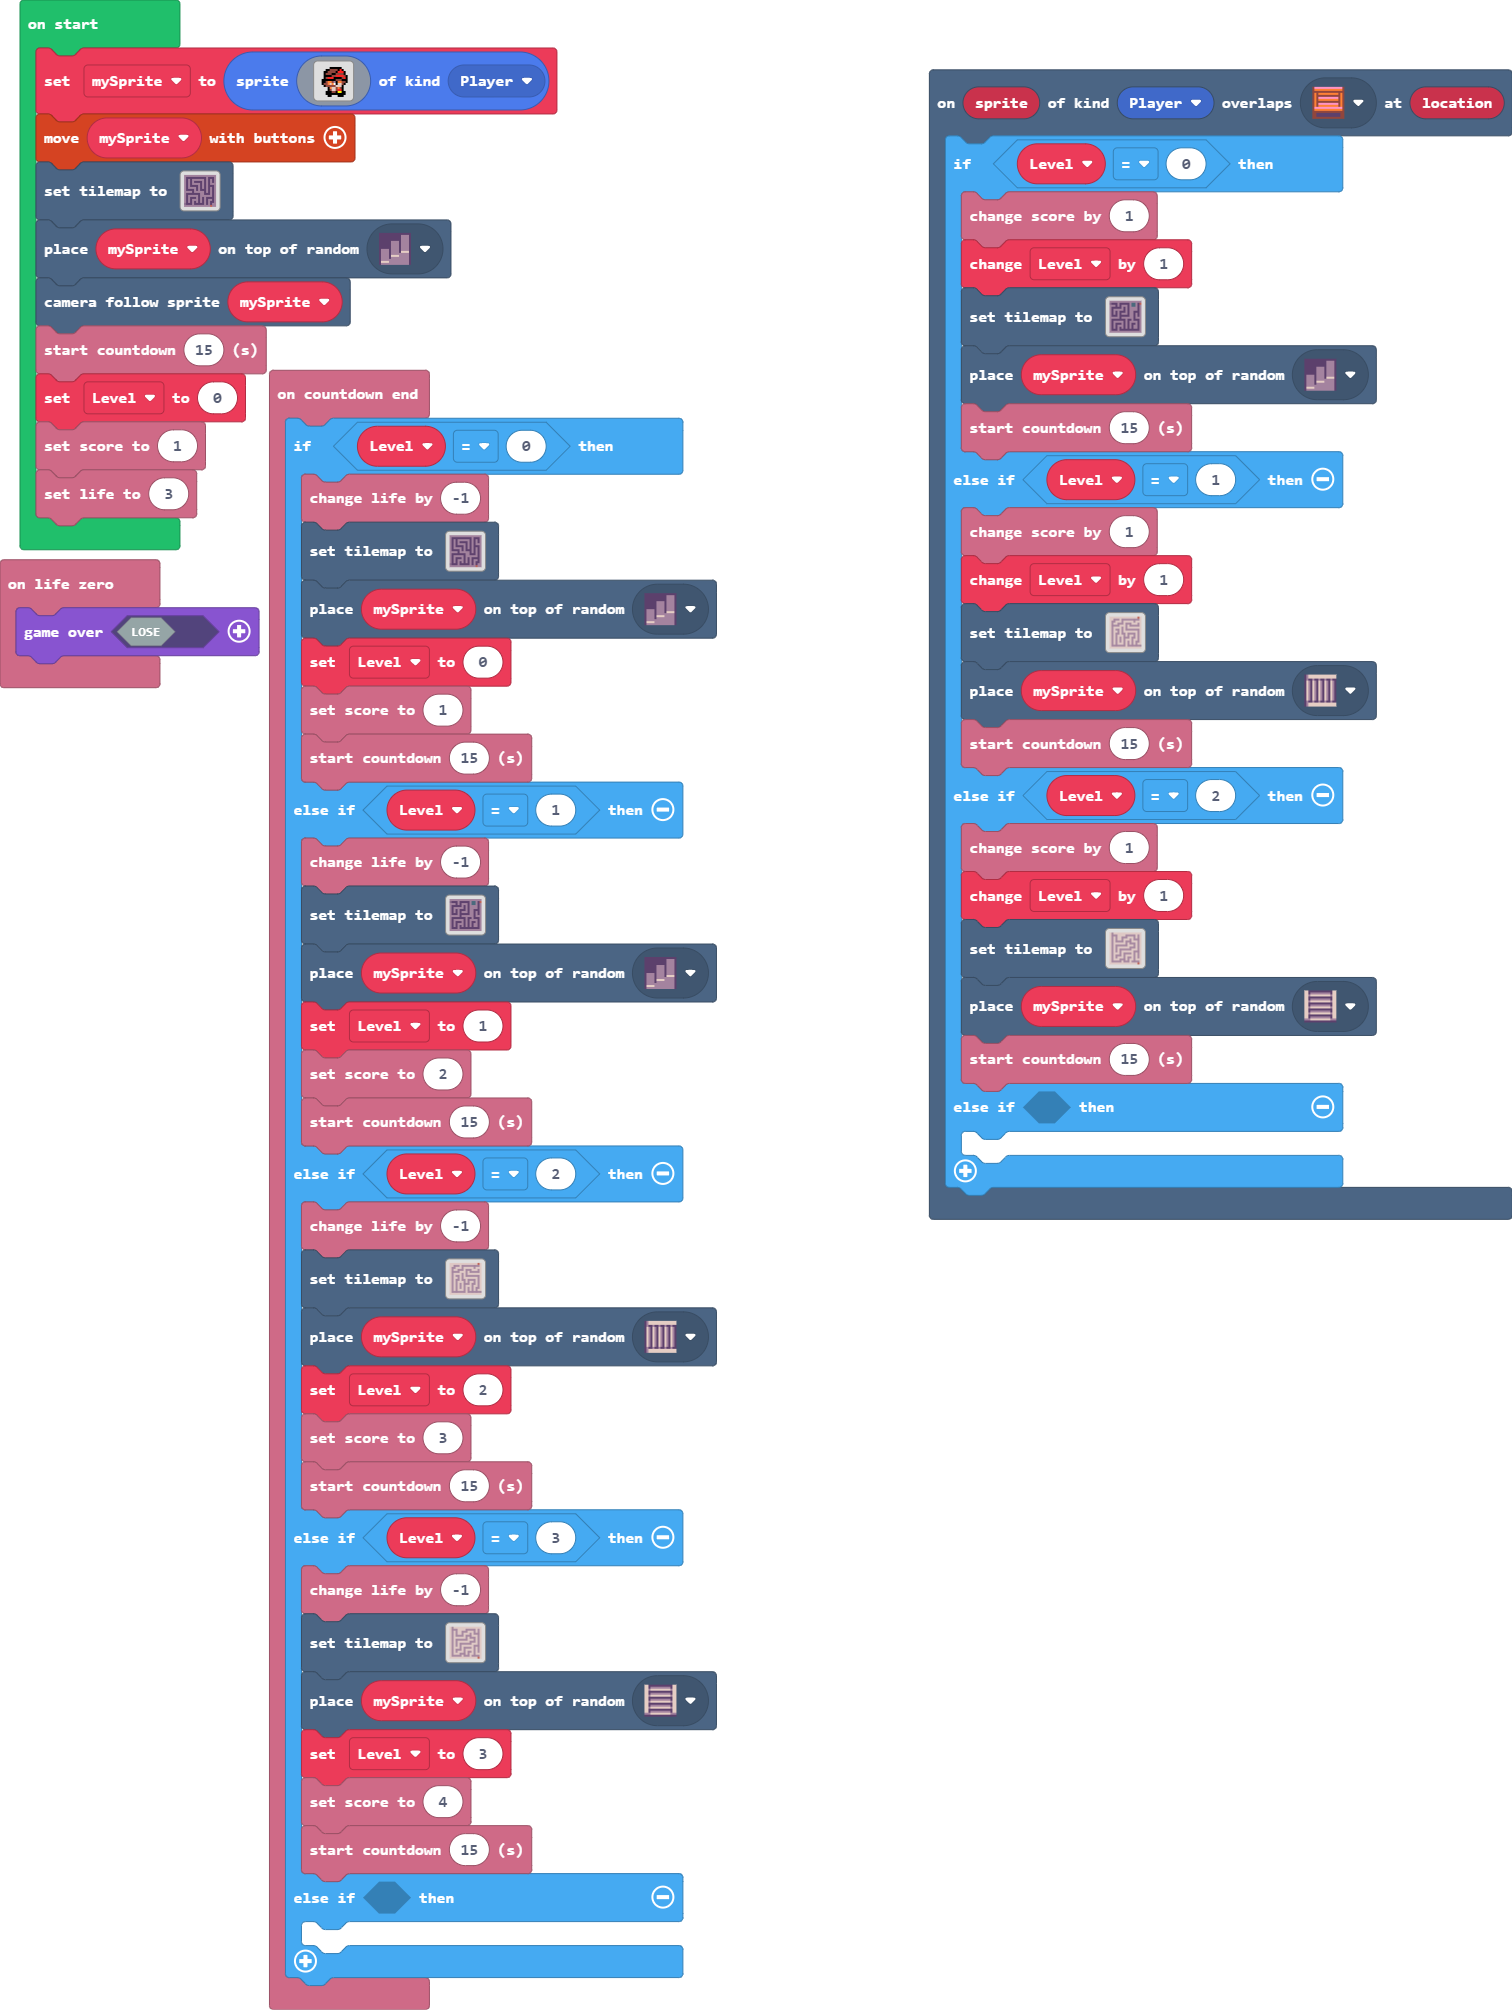
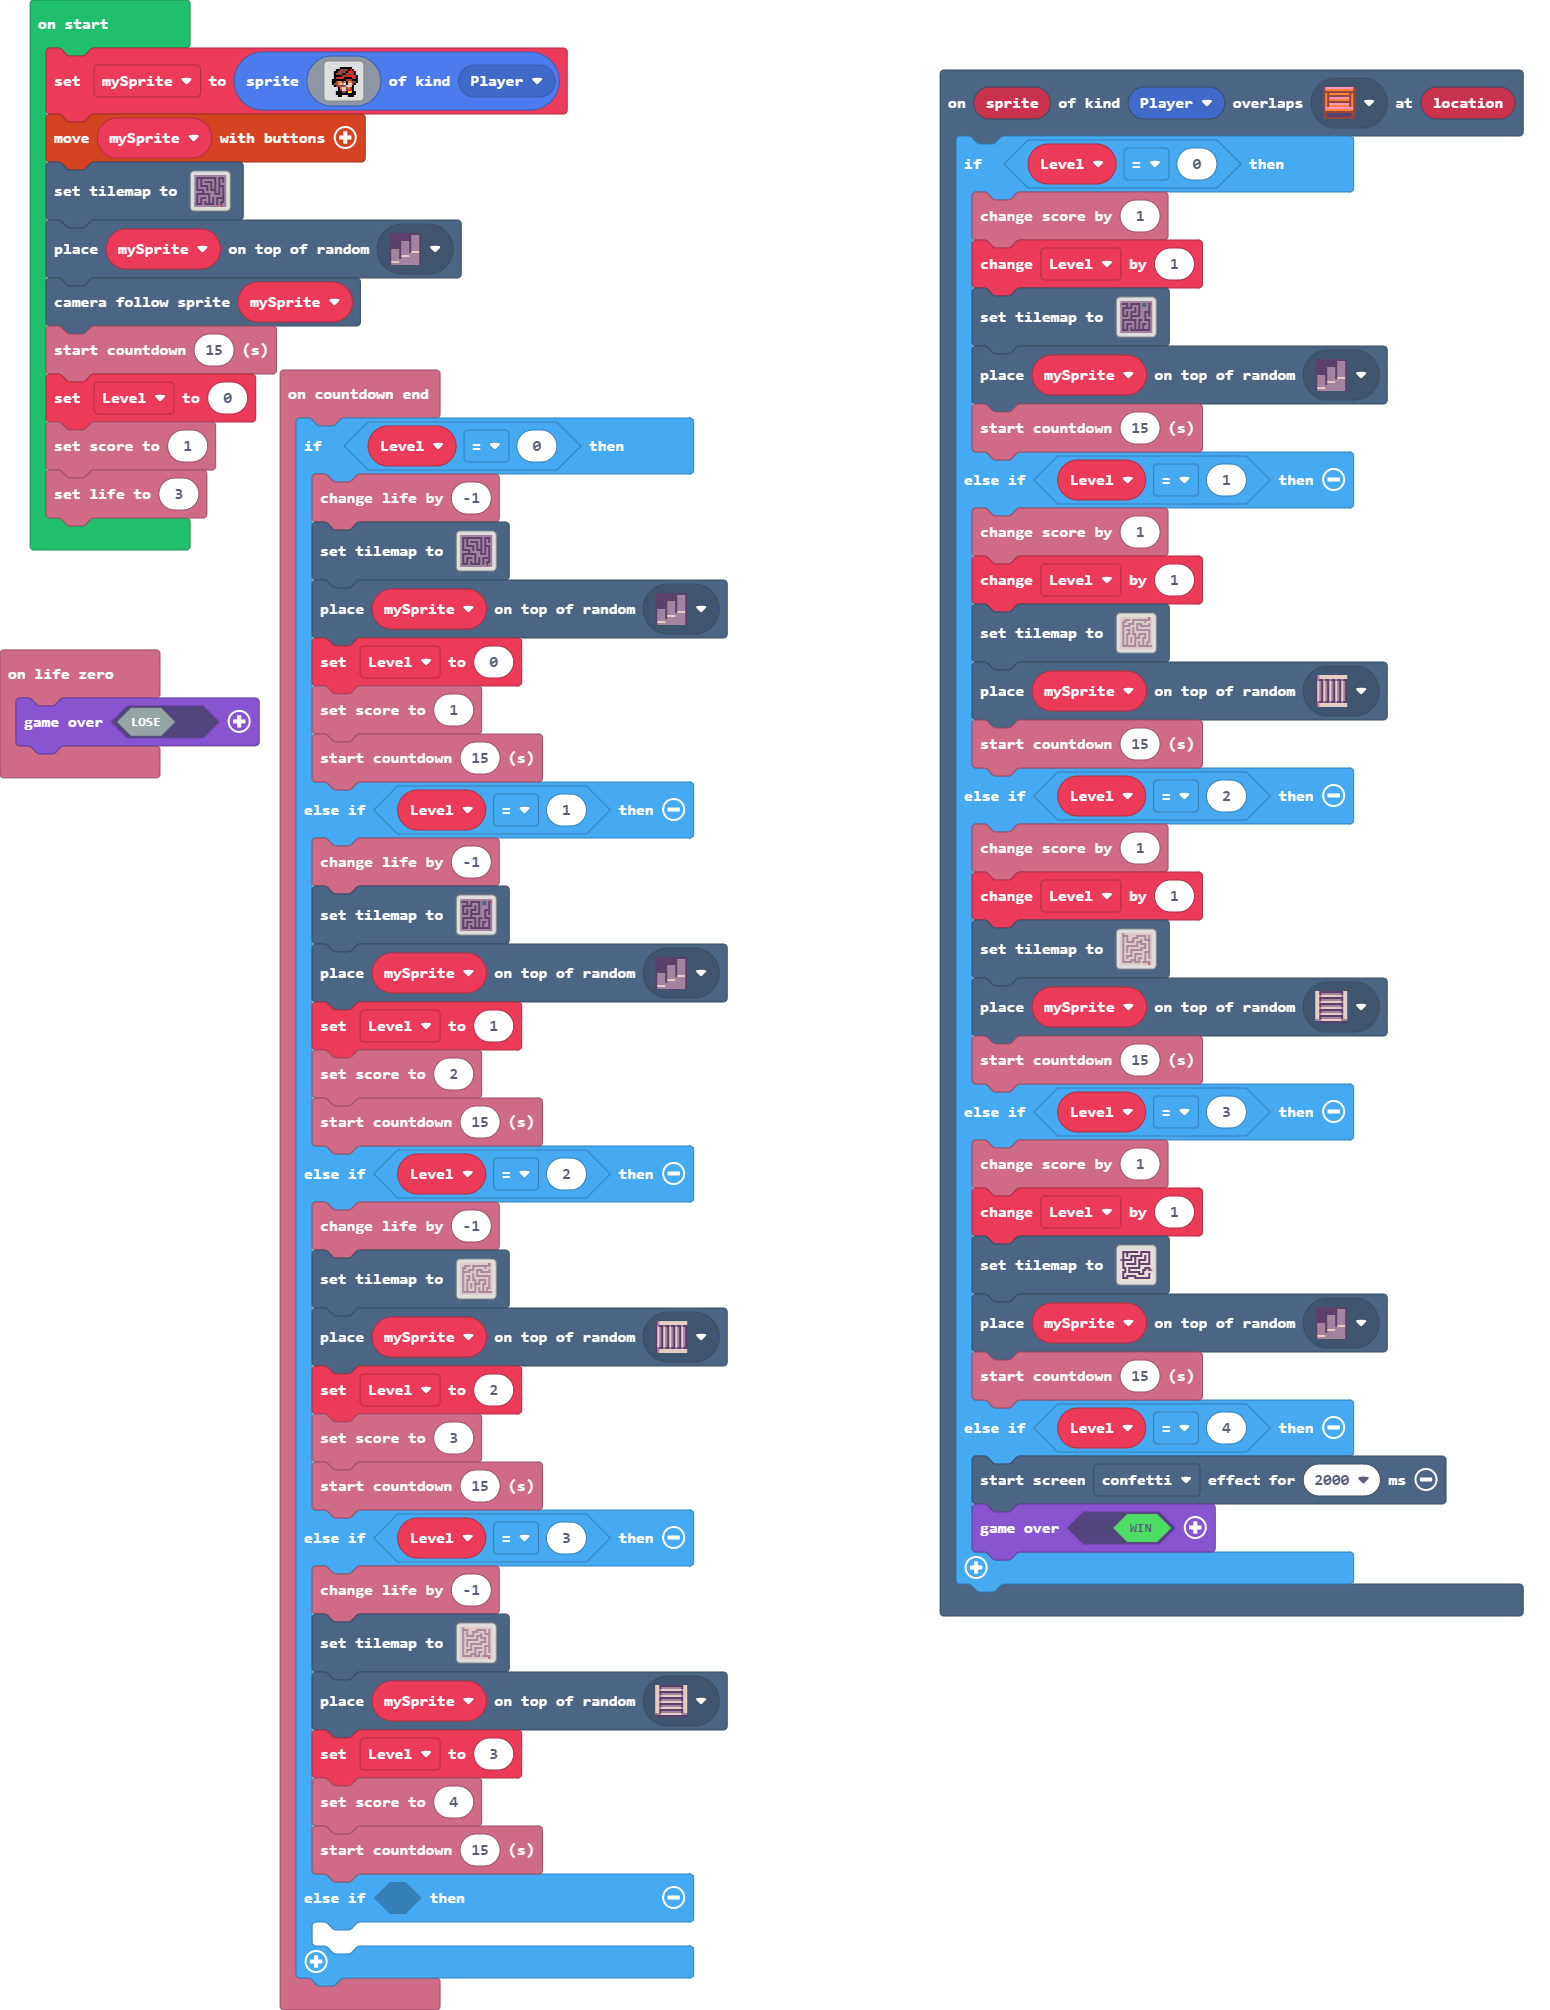
Update main.blocks, main.ts, tilemap.g.jres, tilemap.g.ts

diff --git a/tilemap.g.ts b/tilemap.g.ts
@@ -218,6 +218,25 @@ namespace myTiles {
 . . . . . . . . . . . . . . . . 
 . . . . . . . . . . . . . . . . 
 `, [myTiles.transparency16], TileScale.Sixteen);
+            case "level12":
+            case "level12":return tiles.createTilemap(hex`1000100001010101010101010101010101010101010202020202020202010202020202010102010201010101010102010101020101020102010202020202020102010201010201010102010201010101020102010302020202020102010202020201020101020101010101020102010101010201010201020202020201020202020202010102010101010101010201010101010101020201020202020202010102020201010102010201010101010102020102040102020102020202020201020101010101020101010101010102020201010201010201020202020201010101010102010102020201010102020202020202020101010101010101010101010101010101`, img`
+2 2 2 2 2 2 2 2 2 2 2 2 2 2 2 2 
+2 . . . . . . . . 2 . . . . . 2 
+2 . 2 . 2 2 2 2 2 2 . 2 2 2 . 2 
+2 . 2 . 2 . . . . . . 2 . 2 . 2 
+2 . 2 2 2 . 2 . 2 2 2 2 . 2 . 2 
+. . . . . . 2 . 2 . . . . 2 . 2 
+2 . 2 2 2 2 2 . 2 . 2 2 2 2 . 2 
+2 . 2 . . . . . 2 . . . . . . 2 
+2 . 2 2 2 2 2 2 2 . 2 2 2 2 2 2 
+2 . . 2 . . . . . . 2 2 . . . 2 
+2 2 . 2 . 2 2 2 2 2 2 . . 2 . . 
+2 . . 2 . . . . . . 2 . 2 2 2 2 
+2 . 2 2 2 2 2 2 2 . . . 2 2 . 2 
+2 . 2 . . . . . 2 2 2 2 2 2 . 2 
+2 . . . 2 2 2 . . . . . . . . 2 
+2 2 2 2 2 2 2 2 2 2 2 2 2 2 2 2 
+`, [myTiles.transparency16,sprites.builtin.brick,sprites.dungeon.darkGroundCenter,sprites.dungeon.stairLarge,sprites.dungeon.stairLadder], TileScale.Sixteen);
         }
         return null;
     })

diff --git a/main.ts b/main.ts
@@ -17,8 +17,15 @@ scene.onOverlapTile(SpriteKind.Player, sprites.dungeon.stairLadder, function (sp
         tiles.setTilemap(tilemap`level10`)
         tiles.placeOnRandomTile(mySprite, sprites.dungeon.stairNorth)
         info.startCountdown(15)
-    } else if (false) {
-    	
+    } else if (Level == 3) {
+        info.changeScoreBy(1)
+        Level += 1
+        tiles.setTilemap(tilemap`level12`)
+        tiles.placeOnRandomTile(mySprite, sprites.dungeon.stairLarge)
+        info.startCountdown(15)
+    } else if (Level == 4) {
+        effects.confetti.startScreenEffect(2000)
+        game.over(true)
     }
 })
 info.onCountdownEnd(function () {
